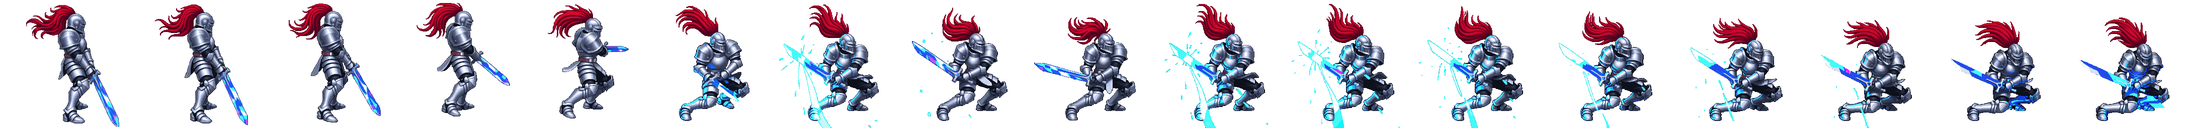
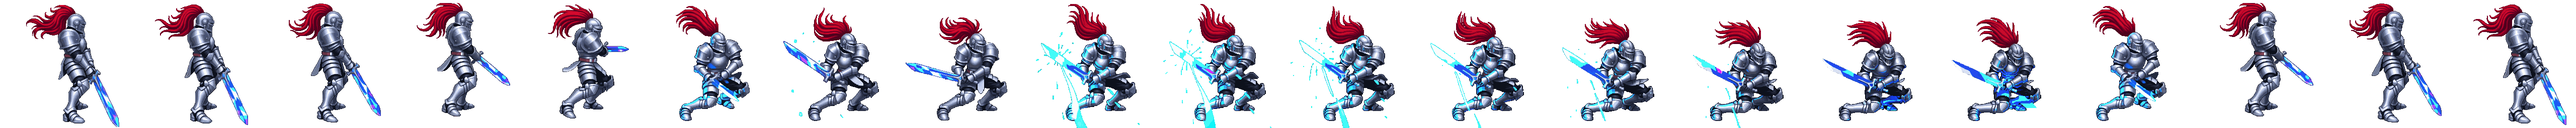
Updated Knightbuff sheet: 20 frames, rest on frame 16
Claude-Session: https://claude.ai/code/session_01CHYFnkEUrdHTgUUt5mpejj

diff --git a/js/data/heroes.js b/js/data/heroes.js
@@ -204,8 +204,10 @@ const HEROES = {
                   variantOf: 'idle', every: [7, 14], holds: { 7: 15 } },
         // alert stance, loops while it's her turn to act
         ready:  { src: 'assets/heroes/florence/Knightready.png', frames: 9, fps: 6, loop: true },
-        // sword-slam crystal burst, plays on Crystal Resonance
-        buff:   { src: 'assets/heroes/florence/Knightbuff.png', frames: 17, fps: 12, loop: false },
+        // sword-slam crystal burst, plays on Crystal Resonance;
+        // rests on frame 16 as the crystals flare.
+        buff:   { src: 'assets/heroes/florence/Knightbuff.png', frames: 20, fps: 12, loop: false,
+                  holds: { 16: 5 } },
         attack: { src: 'assets/heroes/florence/attack.png', frames: 6, fps: 12, loop: false },
       },
     },
